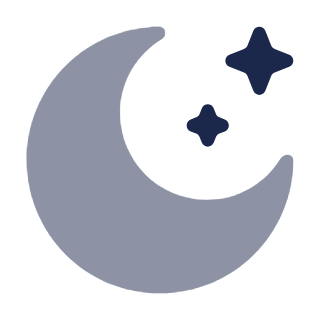
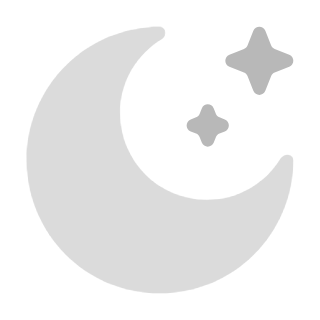
fixing theme bugs

diff --git a/webapp/f1PredictionProject/F1PredictionWebApp/templates/base.html b/webapp/f1PredictionProject/F1PredictionWebApp/templates/base.html
@@ -10,6 +10,8 @@
     <script>
         function toggleTheme() {
             var themeImage = document.getElementById("theme_switch");
+            var profileImage = document.getElementById("profile_image");
+
             var currentSrc = themeImage.src;
             var currentFilename = currentSrc.split('/').pop();
             var body = document.body;
@@ -17,6 +19,9 @@
 
             if (currentFilename === "sun.png") {
                 themeImage.src = "{% static 'moon.png' %}";
+                if (profileImage) {
+                    profileImage.src = "{% static 'light-profile-icon.png' %}";
+                }
                 body.classList.remove('light-mode');
                 body.classList.add('dark-mode');
                 cards.forEach(function(card) {
@@ -25,6 +30,9 @@
                 });
             } else {
                 themeImage.src = "{% static 'sun.png' %}";
+                if (profileImage) {
+                    profileImage.src = "{% static 'profileicon.png' %}";
+                }
                 body.classList.remove('dark-mode');
                 body.classList.add('light-mode');
                 cards.forEach(function(card) {
@@ -42,21 +50,29 @@
 <body class="light-mode">
     <div class="card light">
         <div class="navbar centre-vert">
-            <a href="{% url 'index' %}" class ="link header"><p>PredictF1</p></a>
+            <a href="{% url 'index' %}" class ="link header"><p class="button-red">PredictF1</p></a>
             <div class="navbar centre-vert">
                 {% if user.is_authenticated %}
-                    <a href="" class ="link"><p><img class="profile-image" src="{% static 'profileicon.png' %}" alt="Profile Picture"></a></p>
+                    <a href="" class ="link"><p><img id="profile_image" class="profile-image" src="{% static 'profileicon.png' %}" alt="Profile Picture"></a></p>
                 {% endif %}
                 <div style="margin-right: 20px;"></div>
-                <div><img class="profile-image" id="theme_switch" src="{% static 'sun.png' %}" alt="Theme Image" onmouseup="toggleTheme()"></div>
+                <img class="profile-image" id="theme_switch" src="{% static 'sun.png' %}" alt="Theme Image" onmouseup="toggleTheme()">
             </div>
         </div>
     </div>
 
-    <div class="card light" style="margin-top: 10px;">
-        {% block content %}
-        {% endblock %}
+    <div style="margin-top: 20px;"></div>
+    {% if not user.is_authenticated %}
+    <div class="card light">
+        <div class="navbar centre-vert centre">
+            <a href="{% url 'login' %}" class ="link button-red"><p>Login</p></a>
+            <a href="{% url 'signup' %}" class ="link button-red"><p>Sign Up</p></a>
+        </div>
     </div>
+    {% endif %}
+    <div style="margin-top: 20px;"></div>
+    {% block content %}
+    {% endblock %}
     <footer>
     </footer>
 

diff --git a/webapp/f1PredictionProject/F1PredictionWebApp/static/base.css b/webapp/f1PredictionProject/F1PredictionWebApp/static/base.css
@@ -17,7 +17,7 @@ body {
 }
 
 .dark-mode {
-    background-color: #1a1a1a;
+    background-color: #000;
     color: #ffffff;
 }
 
@@ -31,9 +31,10 @@ body {
     background-color: #ffffff;
     box-shadow: 0 4px 8px rgba(0, 0, 0, 0.1);
 }
+
 .dark {
     color: #ffffff;
-    background-color: #000000;
+    background-color: #1a1a1a;
     box-shadow: 0 4px 8px rgba(26, 26, 26, 0.1);
 }
 
@@ -72,4 +73,17 @@ body {
 .centre-vert {
     display: flex;
     align-items: center;
+}
+
+.split{
+    margin-top: 10px;
+    margin-bottom: 10px;
+}
+
+.justify-content {
+    display: flex;
+}
+
+.button-red:hover{
+    color: #FF1801;
 }

diff --git a/webapp/f1PredictionProject/F1PredictionWebApp/templates/index.html b/webapp/f1PredictionProject/F1PredictionWebApp/templates/index.html
@@ -3,6 +3,7 @@
 {% block title %}Homepage{% endblock %}
 
 {% block content %}
+<div class="card light">
     <h1>Welcome to PredictF1</h1>
     <p>Use the navigation bar to access the different pages</p>
     {% if user.is_authenticated %}
@@ -11,5 +12,6 @@
         <p>Welcome, guest</p>
         <p> login/sign up using the profile button at the top</p>
     {% endif %}
+</div>
 {% endblock %}
 
